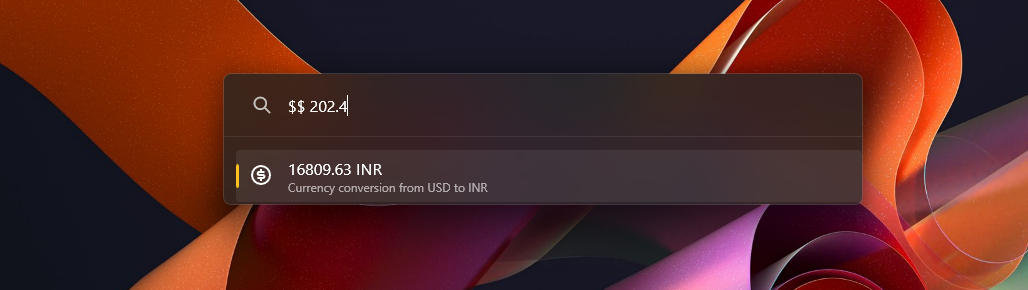
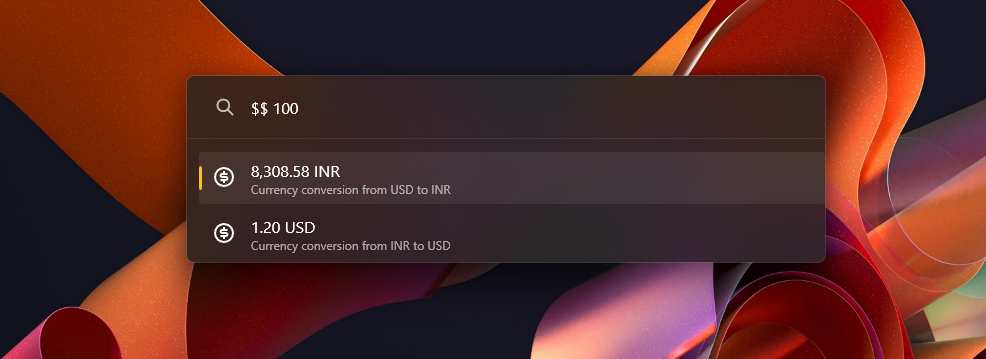
Quick conversion from a different currency

diff --git a/Community.PowerToys.Run.Plugin.CurrencyConverter/Main.cs b/Community.PowerToys.Run.Plugin.CurrencyConverter/Main.cs
@@ -135,7 +135,7 @@ namespace Community.PowerToys.Run.Plugin.CurrencyConverter
         {
             double amountToConvert = 0;
             var parts = query.Search.Trim().Split(" ");
-            if (! ((parts.Length == 1 || parts.Length == 4) && double.TryParse(parts[0], out amountToConvert)))
+            if (! ((parts.Length == 1 || parts.Length == 2 || parts.Length == 4) && double.TryParse(parts[0], out amountToConvert)))
             {
                 return new List<Result>();
             }
@@ -149,6 +149,14 @@ namespace Community.PowerToys.Run.Plugin.CurrencyConverter
                 {
                     GetConversion(amountToConvert, fromCurrency, toCurrency),
                     GetConversion(amountToConvert, toCurrency, fromCurrency)
+                };
+            } 
+            else if (parts.Length == 2)
+            {
+                return new List<Result>
+                {
+                    GetConversion(amountToConvert, parts[1], ConversionDirection == 0 ? GlobalCurrency : LocalCurrency),
+                    GetConversion(amountToConvert, parts[1], ConversionDirection == 0 ? LocalCurrency : GlobalCurrency)
                 };
             }
 

diff --git a/README.md b/README.md
@@ -30,7 +30,7 @@ Example Usage:
 $$ 1 btc to usd
 ```
 
-![Screenshot](screenshots/screenshot2.png)
+![Screenshot](screenshots/screenshot5.png)
 
 ### Quick Conversions
 
@@ -42,6 +42,14 @@ $$ 102.2
 
 ![Screenshot](screenshots/screenshot3.png)
 
+Or, you can convert any currency to your local and globally by:
+
+```
+$$ 1 eur
+```
+
+![Screenshot](screenshots/screenshot4.png)
+
 Your local currency, global currency and the quick conversion direction can also be changed from the settings page in PowerToys Run under this plugin. 
 
 ## Installation
@@ -50,6 +58,6 @@ Your local currency, global currency and the quick conversion direction can also
 2. Extract the zip file's contents to your PowerToys modules directory (usually `%LOCALAPPDATA%\Microsoft\PowerToys\PowerToys Run\Plugins`).
 3. Restart PowerToys.
 
-## Conversion API 
+## Conversion API
 
 This plugin internally uses [Currency API](https://github.com/fawazahmed0/currency-api) for the latest conversion rates. 
